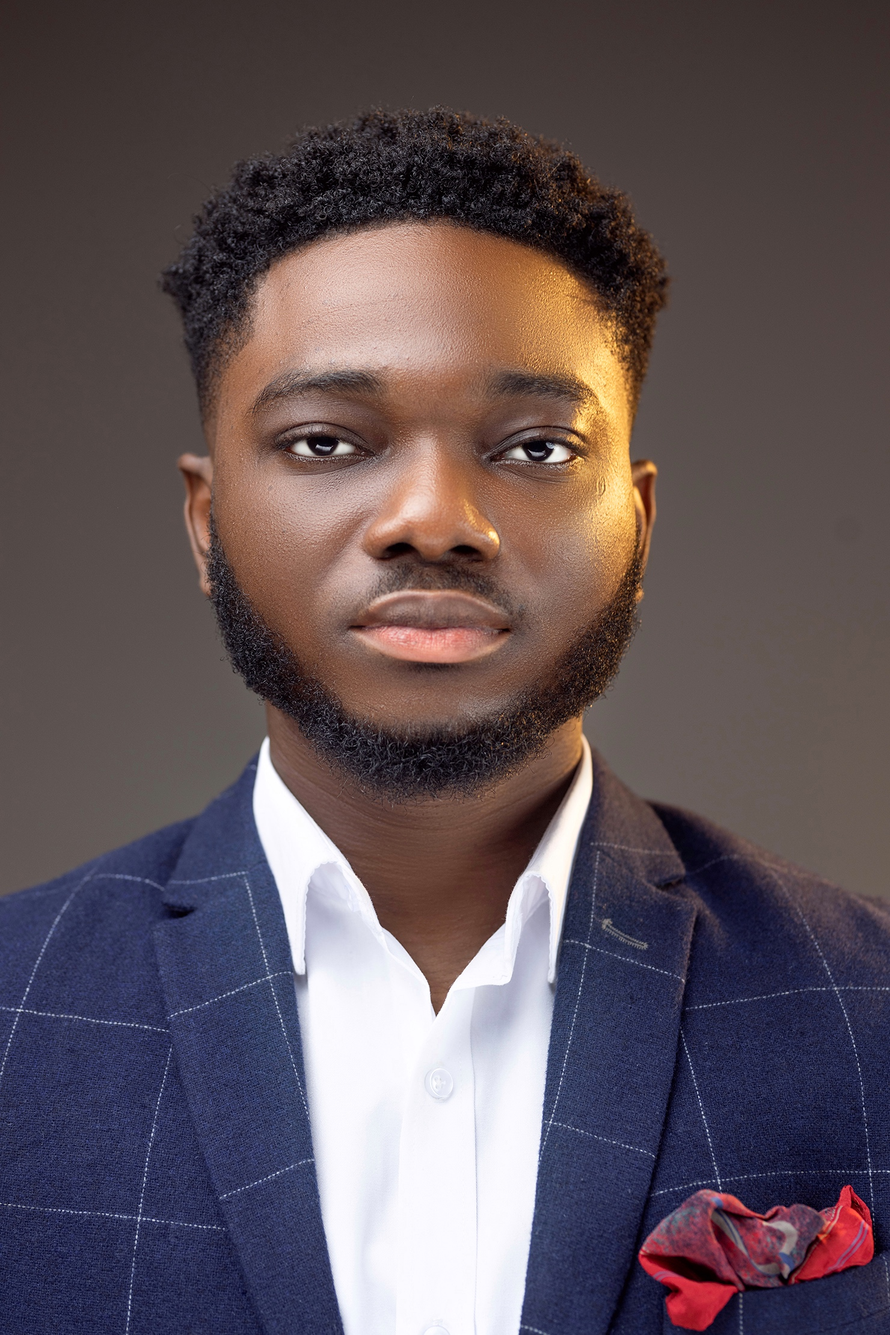
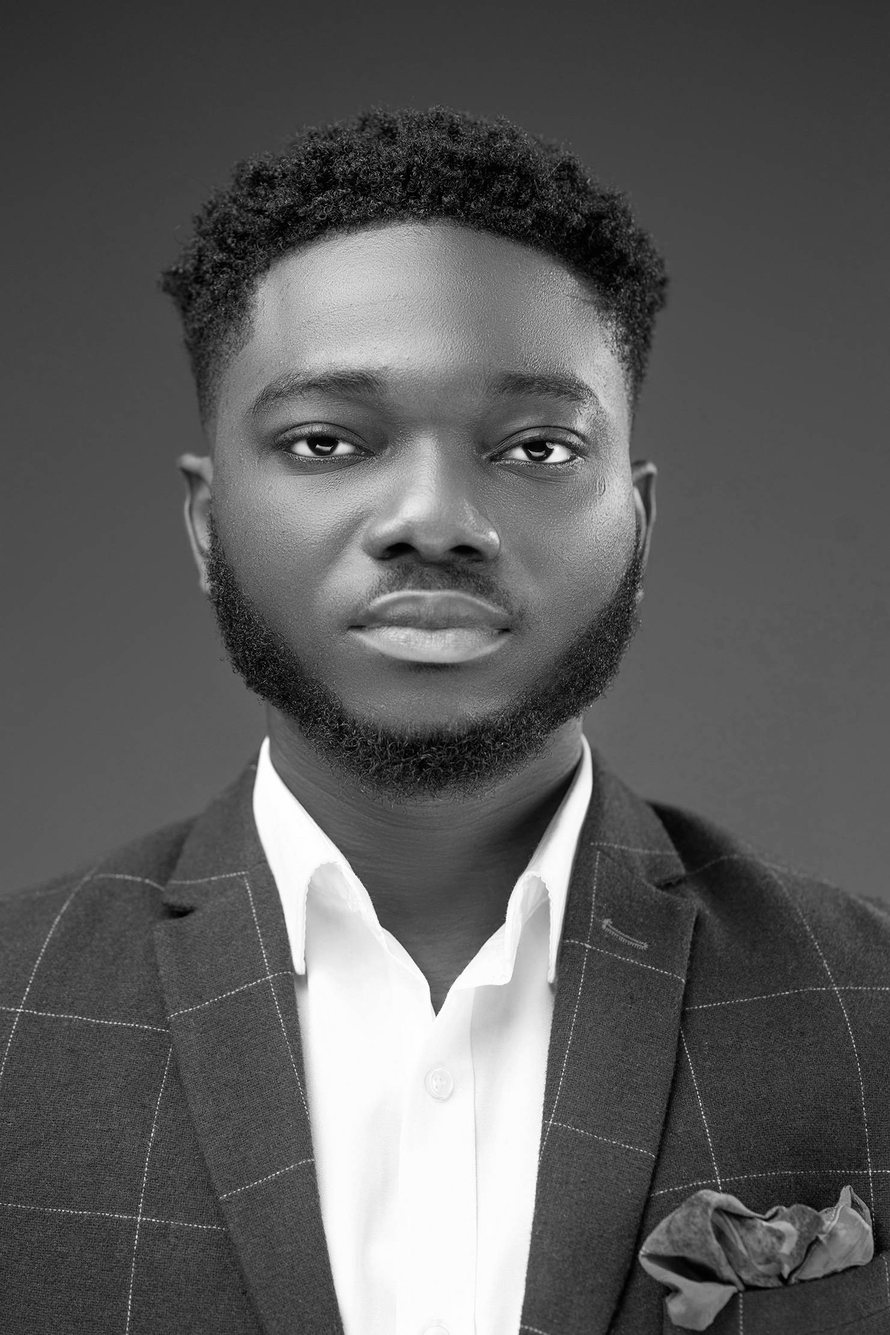
transform images to blend with theme

diff --git a/index.html b/index.html
@@ -107,7 +107,7 @@
         <div class="row gy-4">
           <div class="col-md-6">
             <div class="about-headers mb-4">
-              <h2 class="text-uppercase" style="color: #8d5524; font-weight: 700; letter-spacing: 2px;">Welcome to the</h2>
+              <h2 class="text-uppercase" style="color: #d0bb8e; font-weight: 700; letter-spacing: 2px;">Welcome to the</h2>
               <h3 class="text-uppercase" style="font-weight: 600;">Official website of</h3>
               <h1 class="display-5 text-dark" style="font-weight: 900;">Prince Okoampah</h1>
               <h4 class="mt-3" style="font-weight: 500;">Visionary. Leader. Trailblazer.</h4>
@@ -116,11 +116,11 @@
             </div>
             <div class="row justify-content-between gy-4">
               <div class="col-lg-5">
-                <img src="assets/img/profile-img.jpg" class="img-fluid" style="min-width: 350px;" alt="">
+                <img src="assets/img/IMG_5705.JPEG.jpg" class="img-fluid" style="min-width: 350px;" alt="">
               </div>
             </div>
             <div class="mt-4">
-              <p style="font-size: 2rem; font-weight: bold; color: #8d5524; letter-spacing: 2px; text-transform: uppercase;">
+              <p style="font-size: 2rem; font-weight: bold; color: #d0bb8e; letter-spacing: 2px; text-transform: uppercase;">
                 BE YOURSELF . IT'S NOT THAT HARD
               </p>
             </div>
@@ -178,7 +178,7 @@
       </div>
       <div class="profile">
         <h4>Entrepreneur</h4>
-        <img src="assets/img/IMG_5750.JPG" alt="Entrepreneur" class="profile-image">
+        <img src="assets/img/IMG_5635.JPG" alt="Entrepreneur" class="profile-image">
         <div class="overlay">
           <h2>Entrepreneur</h2>
           <img src="assets/img/raw sign.png" width="50%" alt="Logo 1" class="logo">
@@ -186,7 +186,7 @@
       </div>
       <div class="profile">
         <h4>Developer</h4>
-        <img src="assets/img/IMG_5635.JPG" alt="Developer" class="profile-image">
+        <img src="assets/img/IMG_5750.JPG" alt="Developer" class="profile-image">
         <div class="overlay">
           <h2>Developer</h2>
           <img src="assets/img/raw sign.png" width="50%" alt="Logo 1" class="logo">

diff --git a/assets/css/main.css b/assets/css/main.css
@@ -174,7 +174,7 @@ h6 {
   display: inline-block;
   font-size: 18px;
   letter-spacing: 2px;
-  color: var(--surface-color);
+  color: var(--heading-color);
 }
 
 .title::before,
@@ -185,7 +185,7 @@ h6 {
   transform: translateY(-50%);
   width: 50px;
   height: 2px;
-  background-color: gold;
+  background-color: var(--heading-color);
 }
 
 .title::before {
